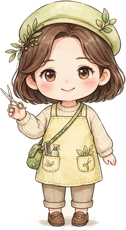
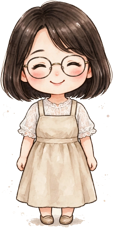
ohana-jima: 歩けるまち（ゴゴ市モード）追加、店内にスタッフのアバター、レデイのパノラマ差し戻し、猫のサイズ調整

diff --git a/ohana-jima/index.html b/ohana-jima/index.html
@@ -46,10 +46,12 @@
   .catspot .cbwrap { display:flex; flex-direction:column; align-items:center; transform:translateY(-18px); cursor:pointer; }
   .catspot .cb { background:#fffdf7; border:1.5px solid #d9a441; border-radius:12px; padding:5px 9px; font-size:11.5px; line-height:1.5; color:#5d4212; max-width:170px; text-align:center; box-shadow:0 3px 8px rgba(90,60,20,.3); position:relative; font-family:"Hiragino Mincho ProN",serif; }
   .catspot .cb::after { content:""; position:absolute; left:50%; bottom:-7px; transform:translateX(-50%); border:6px solid transparent; border-top-color:#d9a441; border-bottom:0; }
-  .catspot img { width:64px; margin-top:8px; filter:drop-shadow(0 4px 5px rgba(60,40,10,.4)); }
+  .catspot img { width:48px; margin-top:8px; filter:drop-shadow(0 4px 5px rgba(60,40,10,.4)); }
   .keeper-hotspot { background:none !important; }
   .keeper-hotspot img { width:74px; filter:drop-shadow(0 5px 3px rgba(60,40,10,.30)) sepia(.22) saturate(.85) brightness(1.03); opacity:.97; cursor:pointer; }
   .keeper-hotspot.big img { width:128px; }
+  .catspot.staff img { width:auto; height:112px; }
+  .keeper-hotspot.staff img { width:auto; height:148px; }
   .catspot img { filter:drop-shadow(0 4px 4px rgba(60,40,10,.35)) sepia(.18) saturate(.88); }
   .ktag { background:#8a6a2a; color:#fff8ea; font-size:10.5px; padding:1px 9px; border-radius:999px; margin-bottom:3px; letter-spacing:.08em; }
   .keeper-hotspot .cbwrap { display:flex; flex-direction:column; align-items:center; transform:translateY(-14px); cursor:pointer; }
@@ -133,17 +135,33 @@
   .mpin .pd { display:block; width:13px; height:13px; margin:0 auto; border-radius:50%; border:2px solid #fff; box-shadow:0 1px 4px rgba(90,60,10,.35); }
   .mpin .pl { display:block; font-size:10.5px; color:#5d4212; background:rgba(255,253,247,.85); border-radius:8px; padding:0 5px; margin-top:1px; white-space:nowrap; }
   .mpin .pb { position:absolute; top:-7px; right:-4px; background:#d96a7a; color:#fff; font-size:9px; border-radius:8px; padding:0 4px; }
-  .mcat { position:absolute; width:50px; pointer-events:none; transform:translate(-50%,-86%); z-index:5; text-align:center; }
+  .mcat { position:absolute; width:36px; pointer-events:none; transform:translate(-50%,-86%); z-index:5; text-align:center; }
   .mcat img { width:100%; display:block; }
   .mcat .mtag { font-size:10px; color:#5d4212; background:rgba(255,253,247,.88); border-radius:8px; padding:0 5px; white-space:nowrap; display:inline-block; }
-  .mcat.player { width:62px; z-index:8; }
+  .mcat.player { width:44px; z-index:8; }
   .mcat.player .mtag { background:#0068B7; color:#fff; font-weight:700; }
-  .mpost { position:absolute; width:38px; pointer-events:none; transform:translate(-50%,-80%); z-index:6; cursor:pointer; text-align:center; }
+  .mpost { position:absolute; width:29px; pointer-events:none; transform:translate(-50%,-80%); z-index:6; cursor:pointer; text-align:center; }
   .mpost img { width:100%; display:block; pointer-events:auto; }
   .mpost .mb { position:absolute; bottom:100%; left:50%; transform:translateX(-50%); width:118px; font-size:10px; line-height:1.45; color:#5d4212; background:#fffdf7; border:1.5px solid #ecd9ae; border-radius:10px; padding:3px 6px; margin-bottom:2px; }
   .mstaff { position:absolute; transform:translate(-50%,-86%); text-align:center; z-index:8; cursor:pointer; }
   .mstaff img { height:56px; filter:drop-shadow(0 2px 2px rgba(90,50,0,.25)); pointer-events:none; }
   .mstaff .stag { display:inline-block; margin-top:-4px; background:rgba(255,255,255,.94); color:#8a4b2a; font-size:9px; font-weight:700; padding:1px 6px; border-radius:8px; white-space:nowrap; }
+
+  #townStage { position:relative; aspect-ratio:680/600; max-height:640px; margin:6px 10px; border:1.5px solid #d9e2c4; border-radius:16px; background:linear-gradient(180deg,#f7f3df,#eef0d8); overflow:hidden; touch-action:none; }
+  #townStage .bldg { position:absolute; transform:translate(-50%,-94%); text-align:center; z-index:4; cursor:pointer; }
+  #townStage .bldg svg { display:block; margin:0 auto; filter:drop-shadow(0 2px 2px rgba(90,60,10,.18)); pointer-events:none; }
+  #townStage .bl { display:inline-block; margin-top:1px; background:rgba(255,255,255,.94); color:#5d4212; font-size:10.5px; font-weight:700; padding:1px 7px; border-radius:8px; white-space:nowrap; }
+  #townStage .tstaff { position:absolute; transform:translate(-50%,-88%); text-align:center; z-index:8; cursor:pointer; }
+  #townStage .tstaff img { height:54px; filter:drop-shadow(0 2px 2px rgba(90,50,0,.25)); pointer-events:none; }
+  #townStage .tstaff .stag { display:inline-block; margin-top:-4px; background:rgba(255,255,255,.94); color:#8a4b2a; font-size:9.5px; font-weight:700; padding:1px 6px; border-radius:8px; white-space:nowrap; }
+  #townStage .tpost { position:absolute; width:31px; transform:translate(-50%,-80%); z-index:6; cursor:pointer; text-align:center; }
+  #townStage .tpost img { width:100%; display:block; }
+  #townStage .tpost .mb { position:absolute; bottom:100%; left:50%; transform:translateX(-50%); width:118px; font-size:10px; line-height:1.45; color:#5d4212; background:#fffdf7; border:1.5px solid #ecd9ae; border-radius:10px; padding:3px 6px; margin-bottom:2px; }
+  #townStage .tcat { position:absolute; width:38px; transform:translate(-50%,-86%); z-index:5; text-align:center; pointer-events:none; }
+  #townStage .tcat img { width:100%; display:block; }
+  #townStage .tcat .mtag { font-size:10px; color:#5d4212; background:rgba(255,253,247,.88); border-radius:8px; padding:0 5px; white-space:nowrap; display:inline-block; }
+  #townStage .tcat.tplayer { width:46px; z-index:9; }
+  #townStage .tcat.tplayer .mtag { background:#0068B7; color:#fff; font-weight:700; }
   #mapCard { position:absolute; left:50%; bottom:12px; transform:translateX(-50%); background:#fffdf7; border:1.5px solid #d9a441; border-radius:14px; padding:10px 14px; z-index:12; display:none; text-align:center; box-shadow:0 4px 14px rgba(90,60,10,.18); max-width:88%; }
   #mapCard h3 { margin:0 0 4px; font-size:15.5px; color:#5d4212; }
   #mapCard p { margin:0 0 8px; font-size:12.5px; color:#7a6248; }
@@ -216,8 +234,24 @@
     <button class="act sub" id="btnCart">カゴを見る（0）</button>
   </div>
   <p class="hint">猫の目線で歩く通りです。進みたい方を向いて地面をタップすると、その方へ歩けます。地面の矢印タップでも進めます。下のまちの地図の丸タップで、その場所へひとっ飛び。ドラッグで見回せます。</p>
+
+  <div class="card" id="townView">
+    <h2>&#x1F43E; まちを歩く（ゴゴ市モード）</h2>
+    <div id="townStage">
+      <svg viewBox="0 0 680 600" style="position:absolute; inset:0; width:100%; height:100%;" aria-hidden="true">
+        <line x1="606" y1="16" x2="606" y2="440" stroke="#e8dcc0" stroke-width="30" stroke-linecap="round"/>
+        <polyline points="484,190 352,226 258,254 228,262" fill="none" stroke="#e8dcc0" stroke-width="26" stroke-linecap="round"/>
+        <polyline points="228,262 192,228 148,192" fill="none" stroke="#e8dcc0" stroke-width="20" stroke-linecap="round"/>
+        <polyline points="352,226 220,390 76,550" fill="none" stroke="#ddd2ae" stroke-width="7" stroke-dasharray="10 8" stroke-linecap="round"/>
+        <g fill="#b9cf9a"><circle cx="420" cy="300" r="16"/><circle cx="452" cy="330" r="12"/><circle cx="540" cy="250" r="14"/><circle cx="300" cy="420" r="15"/><circle cx="520" cy="470" r="16"/><circle cx="130" cy="330" r="13"/><circle cx="90" cy="430" r="12"/><circle cx="400" cy="120" r="13"/><circle cx="250" cy="90" r="15"/></g>
+        <g fill="#a5c48c"><circle cx="560" cy="540" r="14"/><circle cx="180" cy="500" r="14"/><circle cx="620" cy="330" r="11"/></g>
+      </svg>
+      <div id="townBldgs"></div><div id="townCats"></div>
+    </div>
+    <p class="hint" style="margin:2px 12px 12px">まちの中を、猫で歩けます。地面をタップすると歩いていきます。建物をタップすると猫が向かって、その場所のストリートビューに入ります。お店の前には店員さんのアバターが立っています（タップでお店へ）。配置は実際の松山です。</p>
+  </div>
   <div id="mapView">
-    <div id="mapHead"><h2>まちマップ（ゴゴ市モード・実際の位置関係）</h2></div>
+    <div id="mapHead"><h2>島マップ（全体・実際の位置関係）</h2></div>
     <div id="mapStage">
       <svg style="position:absolute;inset:0;width:100%;height:100%" viewBox="0 0 340 300" preserveAspectRatio="none" aria-hidden="true">
         <line x1="300" y1="8" x2="300" y2="212" stroke="#d9b96a" stroke-width="10" stroke-linecap="round" opacity=".18"/>
@@ -228,7 +262,7 @@
       <div id="mapPins"></div><div id="mapCats"></div>
       <div id="mapCard"><h3 id="mapCardName"></h3><p id="mapCardDesc"></p><div class="btns" style="margin:0"><button class="act small" id="btnMapEnter" type="button">ストリートビューで見る</button><button class="act sub small" id="btnMapCardClose" type="button">閉じる</button></div></div>
     </div>
-    <p class="hint" style="margin:2px 12px 12px">地図をタップすると、あなたの猫が歩いていきます。場所のピンをタップすると、猫が歩いていって、その場所のストリートビューに切り替わります。お店の前にはスタッフのアバターが立っています（タップでお店に入れます）。住人の猫たちも歩いています。周りの海とヤシの木は飾りで、街の配置は実際の松山です。</p>
+    <p class="hint" style="margin:2px 12px 12px">地図をタップすると、あなたの猫が歩いていきます。場所のピンをタップすると、猫が歩いていって、その場所のストリートビューに切り替わります。住人の猫たちも歩いています。周りの海とヤシの木は飾りで、街の配置は実際の松山です。</p>
   </div>
 
 
@@ -375,7 +409,7 @@ const SCENES = {
   counter:    { pano:"mahalo-pano-counter.jpg",    name:"MAHALO店内（カウンター前）", yaw:-10, hfov:90 },
   elua:       { pano:"mahalo-pano-elua4.jpg",       name:"elua Mahalo（店内）", yaw:0, hfov:100 },
   lea:        { pano:"mahalo-pano-lea2.jpg",        name:"Lea Mahalo（雑貨屋）", yaw:0, hfov:124 },
-  pharmacy:   { pano:"mahalo-pano-pharmacy3.jpg",   name:"レデイ薬局 宮西店", yaw:-20, hfov:102 },
+  pharmacy:   { pano:"mahalo-pano-pharmacy.jpg",   name:"レデイ薬局 宮西店", yaw:-20, hfov:102 },
   approach:   { pano:"mahalo-pano-approach.jpg",   name:"通り（MAHALOの角）", yaw:40, hfov:102 },
 };
 const SCENE_NAMES = {};
@@ -418,8 +452,8 @@ function walkChevron(div, ex) {
   const l = document.createElement("div"); l.className = "wl"; l.textContent = ex.label;
   w.appendChild(a); w.appendChild(l); div.appendChild(w);
 }
-function shopCat(tag, text, imgSrc, yaw, shop) {
-  return { pitch: -25, yaw: yaw, cssClass: "catspot",
+function shopCat(tag, text, imgSrc, yaw, shop, staff) {
+  return { pitch: staff ? -16 : -25, yaw: yaw, cssClass: "catspot" + (staff ? " staff" : ""),
     createTooltipFunc: (div) => {
       const w = document.createElement("div"); w.className = "cbwrap";
       const t = document.createElement("div"); t.className = "ktag"; t.textContent = tag;
@@ -429,8 +463,8 @@ function shopCat(tag, text, imgSrc, yaw, shop) {
       w.appendChild(t); w.appendChild(b); w.appendChild(img); div.appendChild(w);
     } };
 }
-function eluaCat() { return shopCat("elua 店員さん", "いらっしゃいませ", "cat-calico-sit.png", 28, "elua"); }
-function leaCat() { return shopCat("Lea Mahalo 店員さん", "いらっしゃいませ", "cat-white-sit.png", -30, "lea"); }
+function eluaCat() { return shopCat("elua 店員さん", "いらっしゃいませ", "av-elua.png", 10, "elua", true); }
+function leaCat() { return shopCat("Lea Mahalo 店員さん", "いらっしゃいませ", "av-yuri.png", -16, "lea", true); }
 
 function catSpot(post) {
   return { pitch: post.pitch, yaw: post.yaw, cssClass: "catspot",
@@ -445,13 +479,13 @@ function catSpot(post) {
     } };
 }
 function keeperSpot(big) {
-  return { pitch: big ? -9 : -7, yaw: big ? 40 : 52, cssClass: "keeper-hotspot" + (big ? " big" : ""),
+  return { pitch: big ? -9 : -7, yaw: big ? 24 : 52, cssClass: "keeper-hotspot staff" + (big ? " big" : ""),
     createTooltipFunc: (div) => {
       const w = document.createElement("div"); w.className = "cbwrap";
       const tag = document.createElement("div"); tag.className = "ktag"; tag.textContent = "店員さん";
       const b = document.createElement("div"); b.className = "cb"; b.textContent = "いらっしゃいませ";
       const img = document.createElement("img");
-      img.src = big ? "cat-tabby-walk.png" : "cat-tabby-sit.png"; img.alt = "店員猫";
+      img.src = "av-mahalo.png"; img.alt = "店員さん";
       w.appendChild(tag); w.appendChild(b); w.appendChild(img);
       ["pointerdown","touchstart","click"].forEach(ev => w.addEventListener(ev, (e) => { e.stopPropagation(); openChat(); }));
       div.appendChild(w);
@@ -799,20 +833,6 @@ function buildMap() {
     d.addEventListener("click", (e) => { e.stopPropagation(); openPost(post); });
     mapCats.appendChild(d);
   });
-  const STAFF = [
-    { img: "av-mahalo.png", tag: "百田達一さん", x: 82, y: 170, dest: "stairs" },
-    { img: "av-elua.png", tag: "百田ひろみさん", x: 114, y: 174, dest: "elua" },
-    { img: "av-yuri.png", tag: "有里さん", x: 146, y: 170, dest: "lea" }
-  ];
-  STAFF.forEach(sf => {
-    const dv = document.createElement("div");
-    dv.className = "mstaff";
-    dv.style.left = (sf.x / 340 * 100) + "%";
-    dv.style.top = (sf.y / 300 * 100) + "%";
-    dv.innerHTML = '<img src="' + sf.img + '" alt=""><br><span class="stag">' + sf.tag + "</span>";
-    dv.addEventListener("click", (e) => { e.stopPropagation(); window.scrollTo({ top: 0, behavior: "smooth" }); viewer.loadScene(sf.dest); });
-    mapCats.appendChild(dv);
-  });
   RES_DEFS.forEach((rd, i) => {
     const keys = Object.keys(MAP_POS); const k = MAP_POS[keys[(i * 3 + 2) % keys.length]];
     const r = { x: k[0] + 10, y: k[1] + 12, tx: k[0] + 10, ty: k[1] + 12, moving: false, wait: 1000 + i * 1400, type: rd.type, el: mkCat("", rd.type, rd.name) };
@@ -851,7 +871,90 @@ function closeMap() { window.scrollTo({ top: 0, behavior: "smooth" }); }
 document.getElementById("btnMap").addEventListener("click", openMap);
 
 document.getElementById("btnMapCardClose").addEventListener("click", () => { mapCard.style.display = "none"; });
-buildMap(); mapOpen = true; lastTs = performance.now(); mapRaf = requestAnimationFrame(mapLoop);
+buildMap(); mapOpen = true;
+/* ==== town walk (gogo-ichi mode) ==== */
+const TOWN_POS = {}; Object.keys(MAP_POS).forEach(k => { TOWN_POS[k] = [MAP_POS[k][0] * 2, MAP_POS[k][1] * 2]; });
+const BLDGS = [
+  { scene: 'front', w: 128, label: 'MAHALO\u30d3\u30eb', art: '<svg width="128" height="86" viewBox="0 0 128 86"><rect x="14" y="18" width="100" height="64" rx="4" fill="#f7ead2" stroke="#d9c9a8"/><rect x="14" y="18" width="100" height="14" fill="#0068B7"/><rect x="86" y="40" width="24" height="42" fill="#e8dcc0" stroke="#cbb27f"/><path d="M86 82 l24 -42 M92 82 l24 -42 M98 82 l24 -42" stroke="#cbb27f" stroke-width="2"/><rect x="24" y="44" width="26" height="38" fill="#a9743f"/><rect x="56" y="44" width="20" height="38" fill="#fdfbef" stroke="#cbb27f"/><rect x="8" y="8" width="112" height="10" rx="4" fill="#b5654d"/></svg>' },
+  { scene: 'jinja', w: 96, label: '\u963f\u6cbc\u7f8e\u795e\u793e', art: '<svg width="96" height="78" viewBox="0 0 96 78"><rect x="30" y="34" width="36" height="26" fill="#fdfbef" stroke="#d9c9a8"/><path d="M24 36 L48 22 L72 36 Z" fill="#8a6d4b"/><rect x="14" y="14" width="68" height="7" rx="3" fill="#c25b4a"/><rect x="20" y="26" width="56" height="5" rx="2" fill="#c25b4a"/><rect x="18" y="14" width="6" height="52" fill="#c25b4a"/><rect x="72" y="14" width="6" height="52" fill="#c25b4a"/><rect x="44" y="46" width="8" height="14" fill="#a9743f"/></svg>' },
+  { scene: 'pharmacy', w: 96, label: '\u30ec\u30c7\u30a4\u85ac\u5c40', art: '<svg width="96" height="74" viewBox="0 0 96 74"><rect x="12" y="16" width="72" height="52" rx="4" fill="#ffffff" stroke="#d9d2c4"/><rect x="12" y="16" width="72" height="13" fill="#e59a8a"/><circle cx="48" cy="46" r="10" fill="#e59a8a"/><path d="M48 40 v12 M42 46 h12" stroke="#fff" stroke-width="4"/><rect x="6" y="6" width="84" height="10" rx="4" fill="#b9b0a0"/></svg>' },
+  { scene: 'yaoya', w: 92, label: '\u4e38\u4e94\u9752\u679c', art: '<svg width="92" height="72" viewBox="0 0 92 72"><rect x="14" y="20" width="64" height="46" fill="#fdfbef" stroke="#d9c9a8"/><path d="M8 22 L84 22 L76 36 L16 36 Z" fill="#7a9a5b"/><rect x="24" y="44" width="18" height="10" fill="#e8a13c"/><rect x="48" y="44" width="18" height="10" fill="#c25b4a"/><rect x="8" y="10" width="76" height="10" rx="4" fill="#b5654d"/></svg>' },
+  { scene: 'tamago', w: 92, label: '\u5e73\u91ce\u9d8f\u5375', art: '<svg width="92" height="72" viewBox="0 0 92 72"><rect x="14" y="20" width="64" height="46" fill="#fdfbef" stroke="#d9c9a8"/><path d="M8 22 L84 22 L76 36 L16 36 Z" fill="#e8c877"/><ellipse cx="36" cy="50" rx="8" ry="6" fill="#fff" stroke="#d9c9a8"/><ellipse cx="56" cy="50" rx="8" ry="6" fill="#fff" stroke="#d9c9a8"/><rect x="8" y="10" width="76" height="10" rx="4" fill="#b5654d"/></svg>' },
+  { scene: 'koshin', w: 96, label: '\u5e9a\u7533\u5eb5', art: '<svg width="96" height="76" viewBox="0 0 96 76"><rect x="26" y="30" width="44" height="32" fill="#f7ead2" stroke="#d9c9a8"/><path d="M20 32 L48 14 L76 32 Z" fill="#8a6d4b"/><rect x="43" y="44" width="10" height="18" fill="#a9743f"/><rect x="8" y="58" width="80" height="5" fill="#a9bd8f"/><circle cx="16" cy="46" r="9" fill="#a9bd8f"/><circle cx="82" cy="44" r="8" fill="#a9bd8f"/></svg>' },
+  { scene: 'kayamachi', w: 84, label: '\u8431\u753a\u5546\u5e97\u8857', art: '<svg width="84" height="78" viewBox="0 0 84 78"><rect x="39" y="8" width="6" height="62" fill="#8a6d4b"/><rect x="14" y="12" width="56" height="20" rx="4" fill="#fdfbef" stroke="#d9a441" stroke-width="2"/><circle cx="42" cy="22" r="6" fill="#e8a13c"/></svg>' }
+];
+const TOWN_STAFF = [
+  { img: 'av-mahalo.png', tag: 'MAHALO\u306e\u5e97\u54e1\u3055\u3093', x: 282, y: 250, dest: 'stairs' },
+  { img: 'av-elua.png', tag: 'elua\u306e\u5e97\u54e1\u3055\u3093', x: 182, y: 292, dest: 'elua' },
+  { img: 'av-yuri.png', tag: 'MOMOwaRI', x: 238, y: 298, dest: 'lea' }
+];
+const townStage = document.getElementById('townStage');
+const townCatsEl = document.getElementById('townCats');
+const townRes = [];
+const tPlayer = { x: 228, y: 306, tx: 228, ty: 306, moving: false, targetScene: null, type: null, el: null };
+function tPlace(el, x, y, flip) { el.style.left = (x / 680 * 100) + '%'; el.style.top = (y / 600 * 100) + '%'; el.querySelector('img').style.transform = flip ? 'scaleX(-1)' : ''; }
+function tMkCat(cls, type, name) { const d = document.createElement('div'); d.className = 'tcat ' + cls; d.innerHTML = '<img src="cat-' + type + '-sit.png" alt="">' + (name ? '<br><span class="mtag">' + name + '</span>' : ''); townCatsEl.appendChild(d); return d; }
+function tStep(c, dt, speed) {
+  const dx = c.tx - c.x, dy = c.ty - c.y, dist = Math.hypot(dx, dy);
+  if (dist < 3) { if (c.moving) { c.moving = false; c.el.querySelector('img').src = 'cat-' + (c.type || myProfile.cat) + '-sit.png'; } return true; }
+  const v = Math.min(dist, speed * dt / 1000); c.x += dx / dist * v; c.y += dy / dist * v;
+  if (!c.moving) { c.moving = true; c.el.querySelector('img').src = 'cat-' + (c.type || myProfile.cat) + '-walk.png'; }
+  tPlace(c.el, c.x, c.y, dx < 0); return false;
+}
+function buildTown() {
+  const bg = document.getElementById('townBldgs');
+  BLDGS.forEach(b => {
+    const pos = TOWN_POS[b.scene];
+    const d = document.createElement('div'); d.className = 'bldg';
+    d.style.left = (pos[0] / 680 * 100) + '%'; d.style.top = (pos[1] / 600 * 100) + '%';
+    d.innerHTML = b.art + '<br><span class="bl">' + b.label + '</span>';
+    d.addEventListener('click', (e) => { e.stopPropagation(); tPlayer.tx = pos[0]; tPlayer.ty = Math.min(592, pos[1] + 40); tPlayer.moving = true; tPlayer.targetScene = b.scene; });
+    bg.appendChild(d);
+  });
+  TOWN_STAFF.forEach(sf => {
+    const d = document.createElement('div'); d.className = 'tstaff';
+    d.style.left = (sf.x / 680 * 100) + '%'; d.style.top = (sf.y / 600 * 100) + '%';
+    d.innerHTML = '<img src="' + sf.img + '" alt=""><br><span class="stag">' + sf.tag + '</span>';
+    d.addEventListener('click', (e) => { e.stopPropagation(); window.scrollTo({ top: 0, behavior: 'smooth' }); viewer.loadScene(sf.dest); });
+    townCatsEl.appendChild(d);
+  });
+  POSTS.forEach(post => {
+    if (!TOWN_POS[post.scene]) return;
+    const base = TOWN_POS[post.scene];
+    const d = document.createElement('div'); d.className = 'tpost';
+    d.style.left = ((base[0] + 54) / 680 * 100) + '%'; d.style.top = ((base[1] + 34) / 600 * 100) + '%';
+    d.innerHTML = '<span class="mb">' + post.text.slice(0, 20) + '</span><img src="' + post.catImg + '" alt="">';
+    d.addEventListener('click', (e) => { e.stopPropagation(); openPost(post); });
+    townCatsEl.appendChild(d);
+  });
+  RES_DEFS.forEach((rd, i) => {
+    const keys = Object.keys(TOWN_POS); const k = TOWN_POS[keys[(i * 3 + 2) % keys.length]];
+    const r = { x: k[0] + 14, y: k[1] + 16, tx: k[0] + 14, ty: k[1] + 16, moving: false, wait: 1200 + i * 1300, type: rd.type, el: tMkCat('', rd.type, rd.name) };
+    tPlace(r.el, r.x, r.y, false); townRes.push(r);
+  });
+  tPlayer.el = tMkCat('tplayer', myProfile.cat, myProfile.nickname);
+  tPlace(tPlayer.el, tPlayer.x, tPlayer.y, false);
+}
+let townLast = performance.now();
+function townLoop(ts) {
+  const dt = Math.min(80, ts - townLast); townLast = ts;
+  if (tStep(tPlayer, dt, 125) && tPlayer.targetScene) { const dest = tPlayer.targetScene; tPlayer.targetScene = null; window.scrollTo({ top: 0, behavior: 'smooth' }); viewer.loadScene(dest); }
+  townRes.forEach(r => {
+    if (r.moving) { tStep(r, dt, 42); if (!r.moving) r.wait = 2500 + Math.random() * 4500; }
+    else { r.wait -= dt; if (r.wait <= 0) { const keys = Object.keys(TOWN_POS); const k = TOWN_POS[keys[Math.floor(Math.random() * keys.length)]]; r.tx = k[0] + (Math.random() * 30 - 15); r.ty = k[1] + (Math.random() * 24 - 6); r.moving = true; } }
+  });
+  requestAnimationFrame(townLoop);
+}
+buildTown(); requestAnimationFrame(townLoop);
+townStage.addEventListener('click', (e) => {
+  if (e.target.closest('.bldg,.tstaff,.tpost')) return;
+  const r = townStage.getBoundingClientRect();
+  tPlayer.tx = Math.max(10, Math.min(670, (e.clientX - r.left) / r.width * 680));
+  tPlayer.ty = Math.max(12, Math.min(592, (e.clientY - r.top) / r.height * 600));
+  tPlayer.moving = true; tPlayer.targetScene = null;
+});
+viewer.on('scenechange', function(id) { const t = TOWN_POS[id]; if (t) { tPlayer.tx = t[0]; tPlayer.ty = Math.min(592, t[1] + 40); tPlayer.moving = true; tPlayer.targetScene = null; } });
+ lastTs = performance.now(); mapRaf = requestAnimationFrame(mapLoop);
 viewer.on("scenechange", function(id) { var t = MAP_POS[id] || ([ "stairs", "counter", "elua", "lea" ].indexOf(id) >= 0 ? MAP_POS.front : null); if (t) walkPlayerTo(t[0], t[1], null); });
 mapStage.addEventListener("click", (e) => {
   if (e.target.closest(".mpin,.mpost,.mcat,#mapCard,svg")) { if (e.target === mapStage || e.target.tagName === "svg" || e.target.tagName === "DIV") {} else return; }
